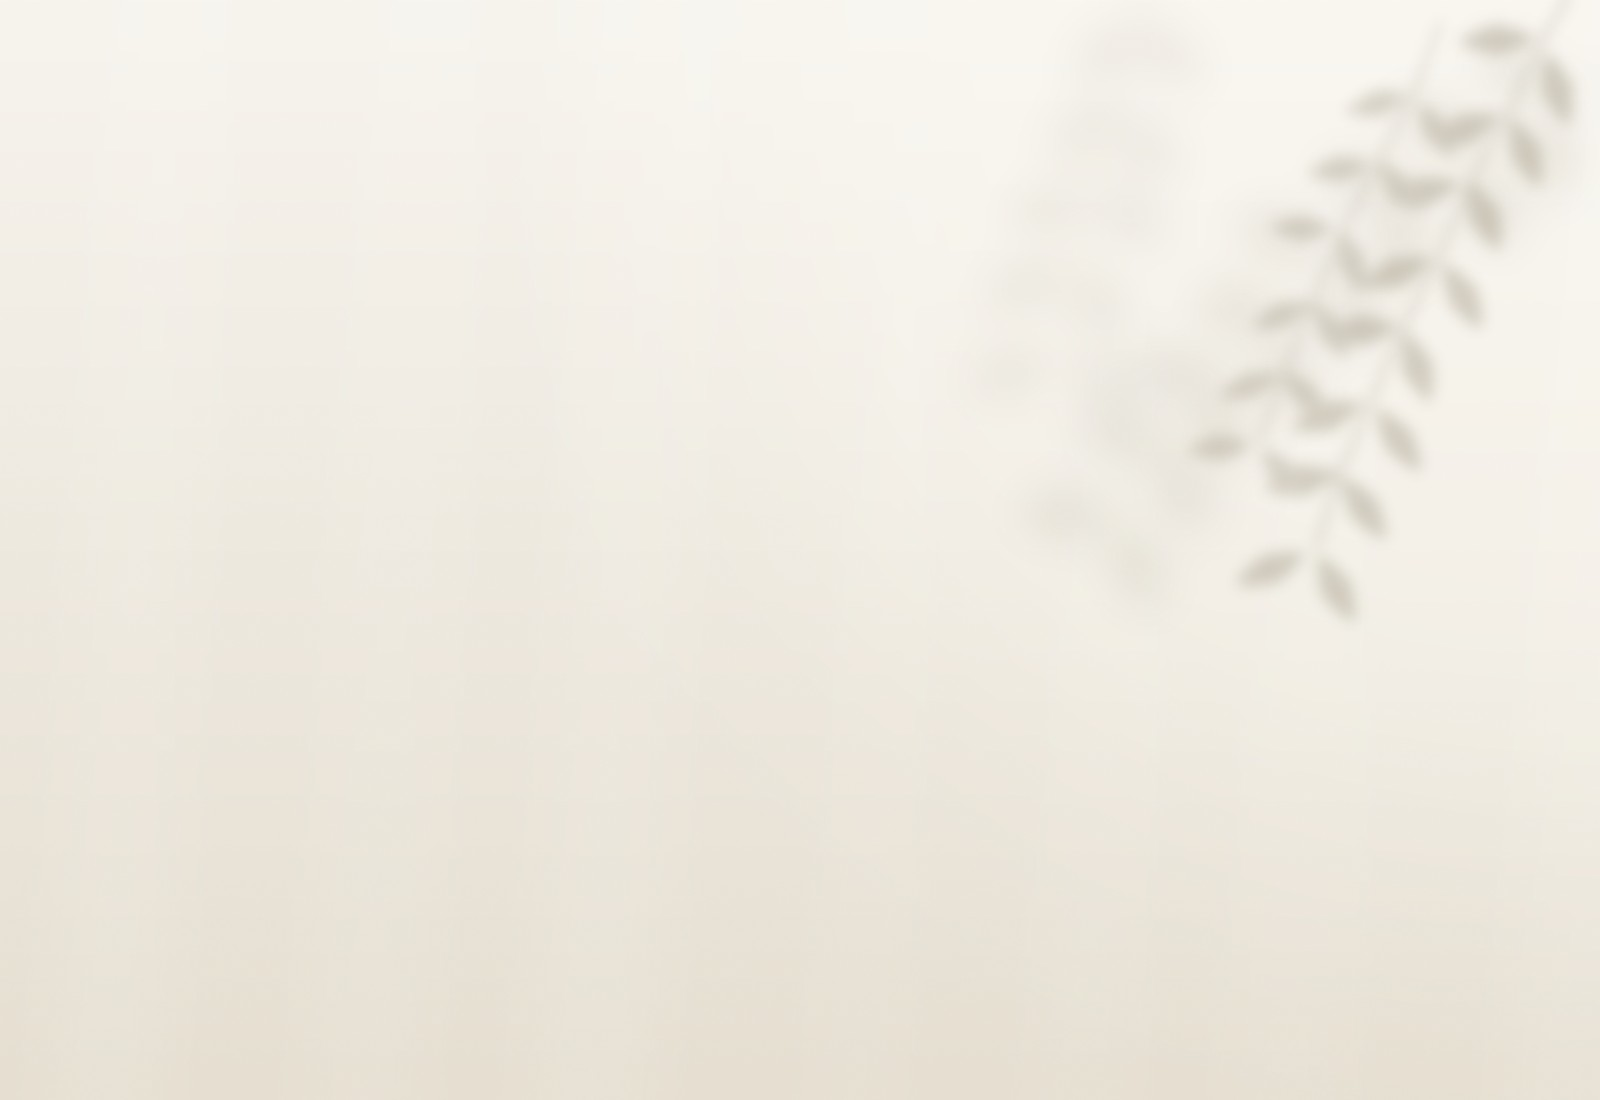
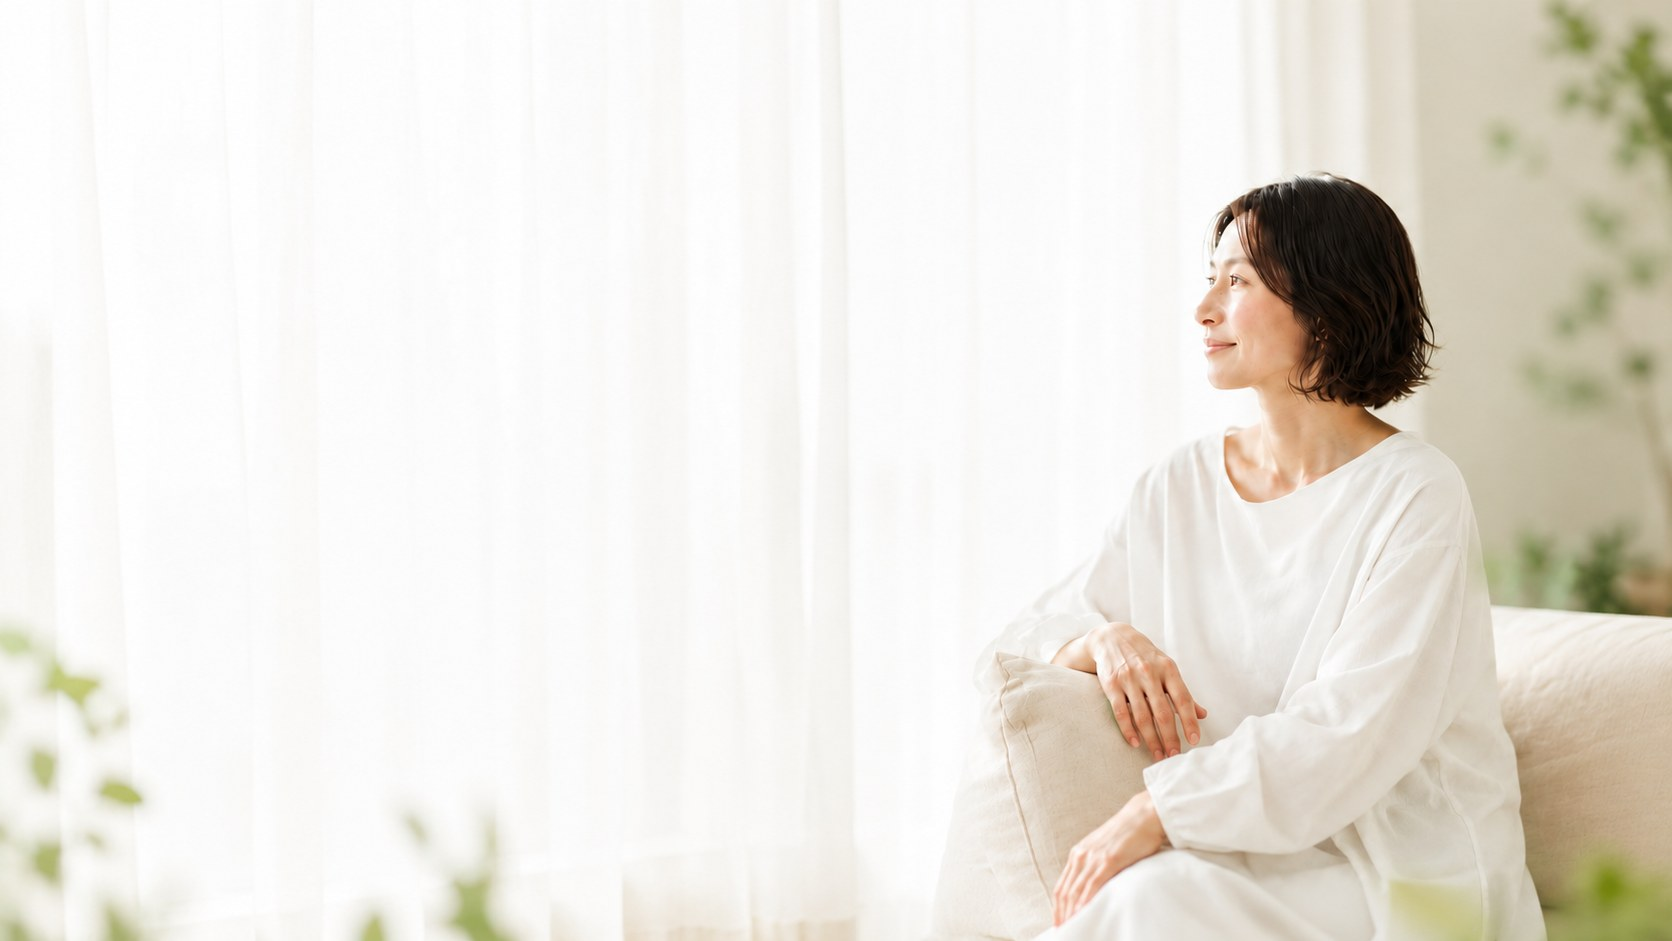
トップの写真を本番用（窓辺の女性）に差し替え

diff --git a/index.html b/index.html
@@ -46,7 +46,7 @@
 ================================================ -->
 <section class="hero">
   <div class="hero-photo">
-    <img src="images/hero.jpg?v=2" alt="">
+    <img src="images/hero.jpg?v=3" alt="">
   </div>
   <div class="hero-inner">
     <h1 class="hero-copy">